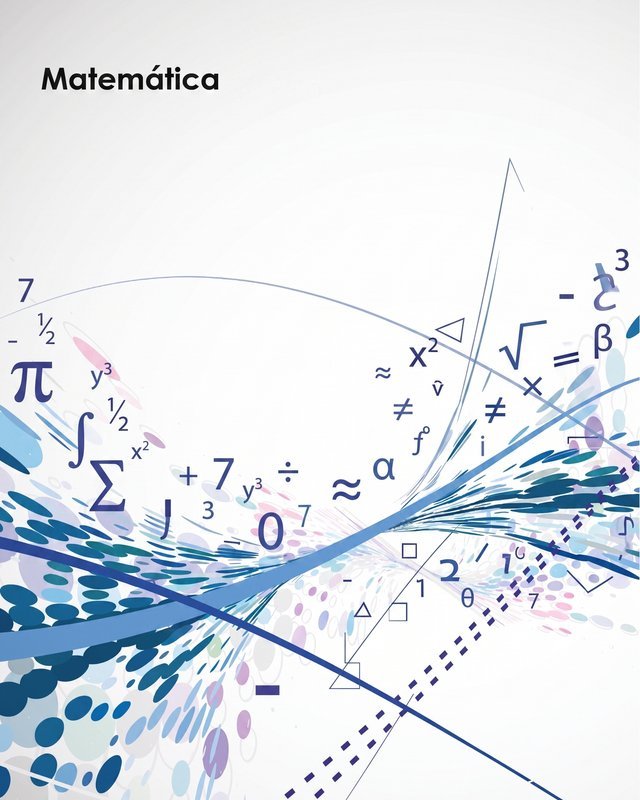
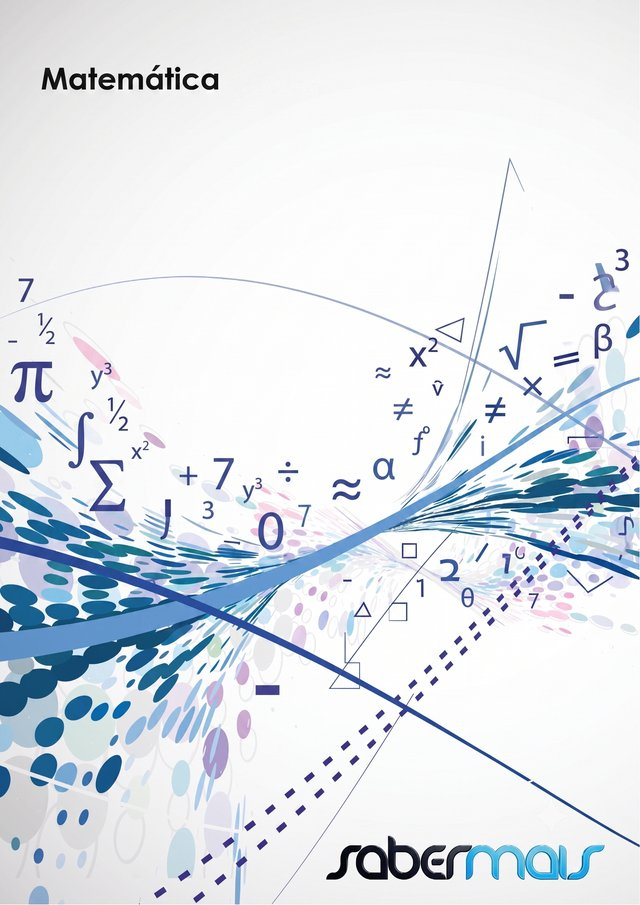
Mostrar capa completa sem recorte e corrigir clique na roda dentada
- Capas geradas a partir da imagem original inteira (sem top-crop),
  usando object-contain + fundo branco para nunca cortar nada.
- Titulo sobreposto desce para 28% do topo (2 linhas) para nao colidir
  com o nome da disciplina impresso na propria capa.
- Corrige a roda dentada de acesso rapido: estava aninhada dentro de
  um <a> (HTML invalido), fazendo o clique abrir o documento em vez
  do modal de editar. Passa a <div> clicavel com stopPropagation nos
  botoes de accao.

diff --git a/src/app/dashboard/ficheiros/page.tsx b/src/app/dashboard/ficheiros/page.tsx
@@ -514,13 +514,18 @@ export default function FicheirosPage() {
                     <motion.div key={f.id} layout initial={{ opacity: 0, scale: 0.95 }} animate={{ opacity: 1, scale: 1 }} exit={{ opacity: 0, scale: 0.9 }} transition={{ delay: i * 0.02 }}
                       className="group c-bg2 border c-br rounded-2xl overflow-hidden hover:border-white/[0.15] hover:shadow-lg transition-all flex flex-col">
 
-                      {/* Thumbnail — clicável */}
-                      <a href={fileUrl} target="_blank" rel="noopener noreferrer" className="block relative overflow-hidden" style={{ aspectRatio: "4/5" }}>
+                      {/* Thumbnail — clicável (div, não <a>, para poder conter botões sem HTML inválido) */}
+                      <div
+                        role="link"
+                        tabIndex={0}
+                        onClick={() => window.open(fileUrl, "_blank", "noopener,noreferrer")}
+                        onKeyDown={e => { if (e.key === "Enter") window.open(fileUrl, "_blank", "noopener,noreferrer"); }}
+                        className={`block relative overflow-hidden cursor-pointer ${f.thumbnail_url ? "bg-white" : ""}`} style={{ aspectRatio: "2/3" }}>
                         {f.thumbnail_url ? (
                           <>
-                            <img src={f.thumbnail_url} alt={f.label} className="w-full h-full object-cover group-hover:scale-105 transition-transform duration-300" />
+                            <img src={f.thumbnail_url} alt={f.label} className="w-full h-full object-contain group-hover:scale-105 transition-transform duration-300" />
                             {isBrandedCapa(f.thumbnail_url) && (
-                              <p className="absolute left-[8%] right-[8%] top-[18%] text-slate-800 font-semibold leading-tight line-clamp-3 text-[9px] sm:text-[10px] md:text-xs">
+                              <p className="absolute left-[8%] right-[8%] top-[28%] text-slate-800 font-semibold leading-tight line-clamp-2 text-[9px] sm:text-[10px] md:text-xs">
                                 {f.label}
                               </p>
                             )}
@@ -543,8 +548,8 @@ export default function FicheirosPage() {
 
                         {/* Roda dentada — sempre visível, acesso rápido a editar/datas */}
                         {canAct && (
-                          <button onClick={e => { e.preventDefault(); openEditModal(f); }}
-                            className="absolute top-2 left-2 p-1.5 rounded-lg bg-black/50 backdrop-blur-sm text-white/80 hover:text-white hover:bg-black/70 transition-colors" title="Editar / datas">
+                          <button onClick={e => { e.preventDefault(); e.stopPropagation(); openEditModal(f); }}
+                            className="absolute top-2 left-2 z-10 p-1.5 rounded-lg bg-black/50 backdrop-blur-sm text-white/80 hover:text-white hover:bg-black/70 transition-colors" title="Editar / datas">
                             <Settings size={13} />
                           </button>
                         )}
@@ -558,13 +563,13 @@ export default function FicheirosPage() {
                             <ExternalLink size={15} />
                           </a>
                           {canAct && (
-                            <button onClick={e => { e.preventDefault(); handleDelete(f.id, f.label ?? f.nome_arquivo ?? "ficheiro"); }}
+                            <button onClick={e => { e.preventDefault(); e.stopPropagation(); handleDelete(f.id, f.label ?? f.nome_arquivo ?? "ficheiro"); }}
                               className="p-2.5 rounded-xl bg-red-500/30 backdrop-blur-sm hover:bg-red-500/50 transition-colors text-red-300" title="Eliminar">
                               <Trash2 size={15} />
                             </button>
                           )}
                         </div>
-                      </a>
+                      </div>
 
                       {/* Info — compacta */}
                       <div className="px-2.5 py-1.5 flex flex-col gap-0.5">

diff --git a/src/app/recursos/page.tsx b/src/app/recursos/page.tsx
@@ -230,12 +230,12 @@ function RecursosContent() {
                           <div className="h-0.5 w-full shrink-0" style={{ background: accent }} />
 
                           {/* Miniatura */}
-                          <div className="w-full aspect-[4/5] bg-black/30 flex items-center justify-center relative overflow-hidden">
+                          <div className={`w-full aspect-[2/3] flex items-center justify-center relative overflow-hidden ${r.thumbnail_url ? "bg-white" : "bg-black/30"}`}>
                             {r.thumbnail_url ? (
                               <>
-                                <img src={r.thumbnail_url} alt={r.label} className="w-full h-full object-cover group-hover:scale-105 transition-transform duration-300" />
+                                <img src={r.thumbnail_url} alt={r.label} className="w-full h-full object-contain group-hover:scale-105 transition-transform duration-300" />
                                 {isBrandedCapa(r.thumbnail_url) && (
-                                  <p className="absolute left-[8%] right-[8%] top-[18%] text-slate-800 font-semibold leading-tight line-clamp-3 text-[9px] sm:text-[10px] md:text-xs">
+                                  <p className="absolute left-[8%] right-[8%] top-[28%] text-slate-800 font-semibold leading-tight line-clamp-2 text-[9px] sm:text-[10px] md:text-xs">
                                     {r.label}
                                   </p>
                                 )}
